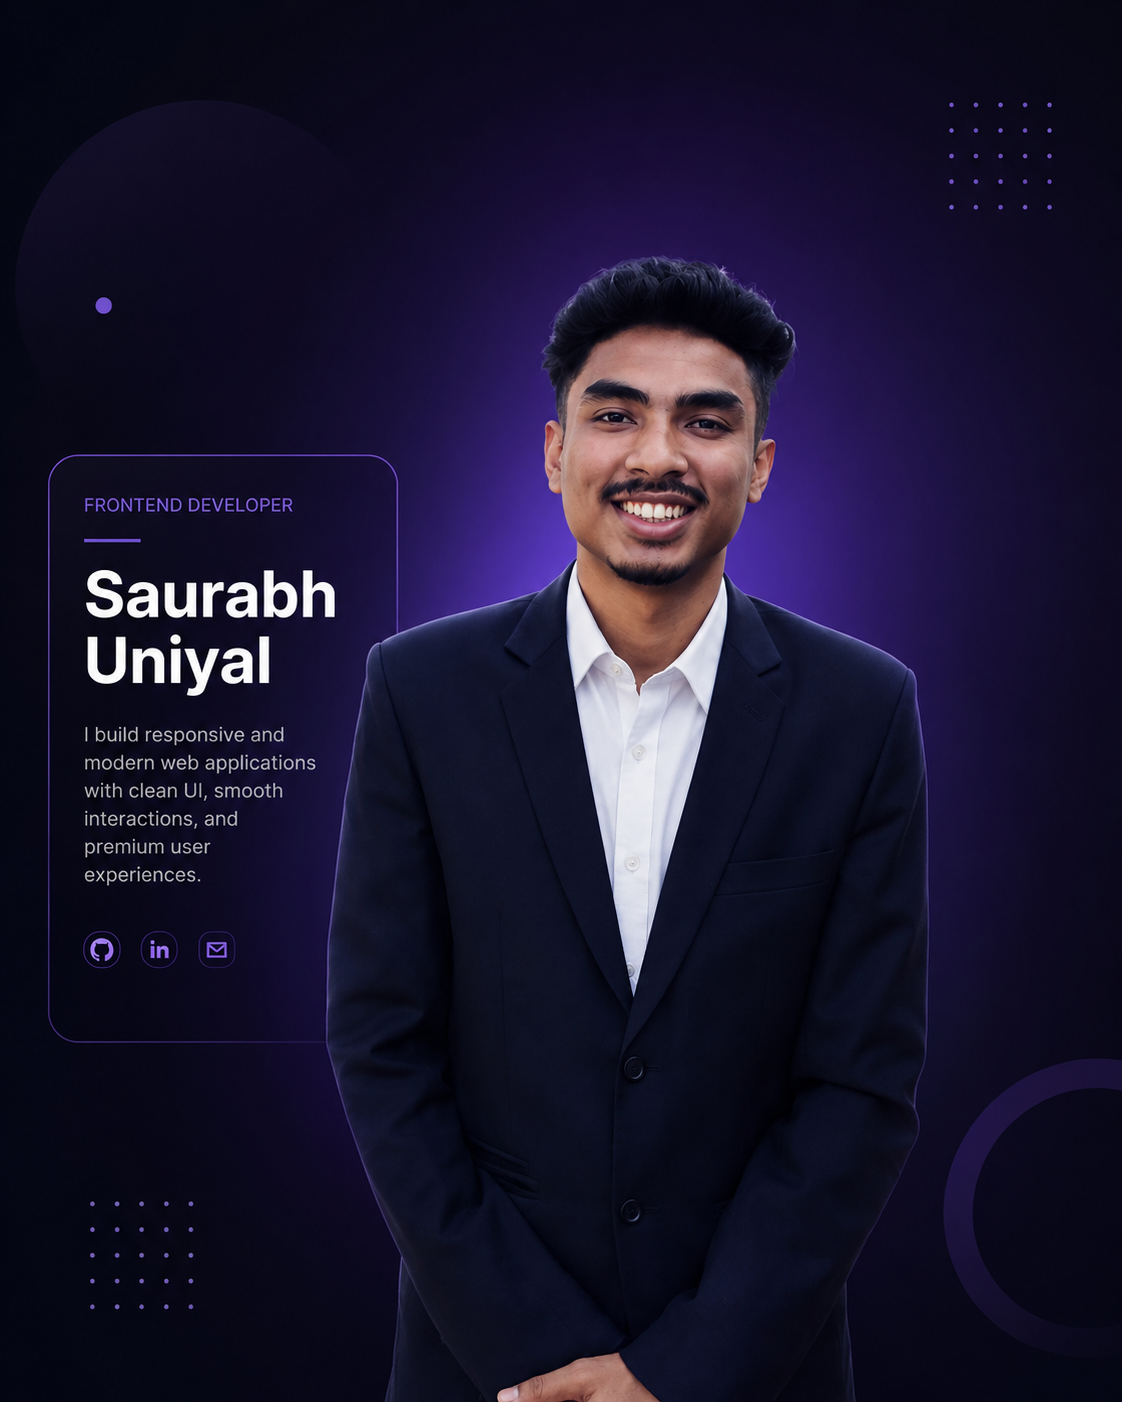
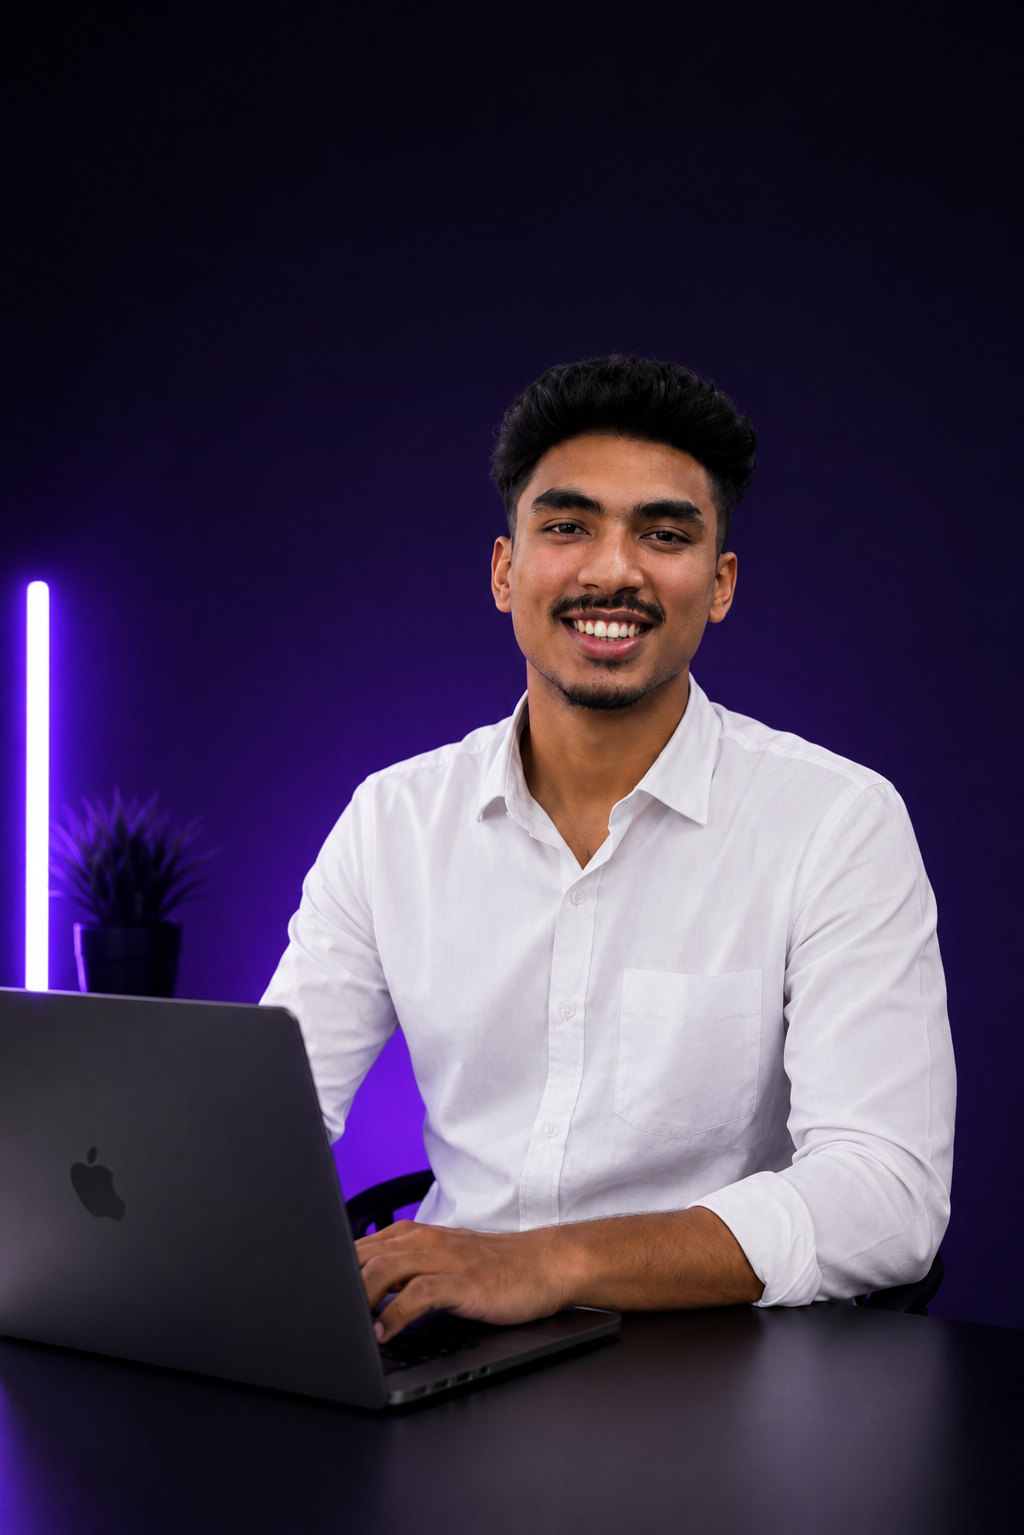
updated portfolio design

diff --git a/portfolio/src/components/Hero.jsx b/portfolio/src/components/Hero.jsx
@@ -2,15 +2,14 @@ import profile from "../assets/developer.png";
 
 function Hero() {
   return (
-
     <section
       id="home"
-      className="min-h-screen py-32 px-6 bg-gradient-to-b from-black via-zinc-950 to-black flex items-center"
+      className="min-h-screen py-32 px-6 bg-gradient-to-b from-black via-zinc-950 to-black flex items-center overflow-hidden"
     >
 
       <div className="max-w-7xl mx-auto grid md:grid-cols-2 gap-20 items-center">
 
-        {/* Left Side */}
+        {/* LEFT SIDE */}
 
         <div className="text-center md:text-left">
 
@@ -85,20 +84,24 @@ function Hero() {
 
         </div>
 
-        {/* Right Side */}
+        {/* RIGHT SIDE */}
 
-        <div className="relative flex justify-center">
+        <div className="relative flex justify-center items-center">
 
-          {/* Glow */}
+          {/* Background Glow */}
 
           <div className="absolute w-[350px] h-[350px] bg-violet-500/20 blur-[120px] rounded-full"></div>
+
+          {/* Secondary Glow */}
+
+          <div className="absolute inset-0 bg-violet-500/10 blur-3xl rounded-full"></div>
 
           {/* Image */}
 
           <img
             src={profile}
-            alt="Developer"
-            className="relative w-full max-w-md rounded-[40px] border border-violet-500/20 shadow-[0_0_80px_rgba(139,92,246,0.2)]"
+            alt="Saurabh Uniyal"
+            className="relative w-full max-w-md rounded-3xl border border-violet-500/20 shadow-[0_0_50px_rgba(168,85,247,0.35)] object-cover hover:scale-105 transition duration-500"
           />
 
         </div>
@@ -106,7 +109,6 @@ function Hero() {
       </div>
 
     </section>
-
   );
 }
 
